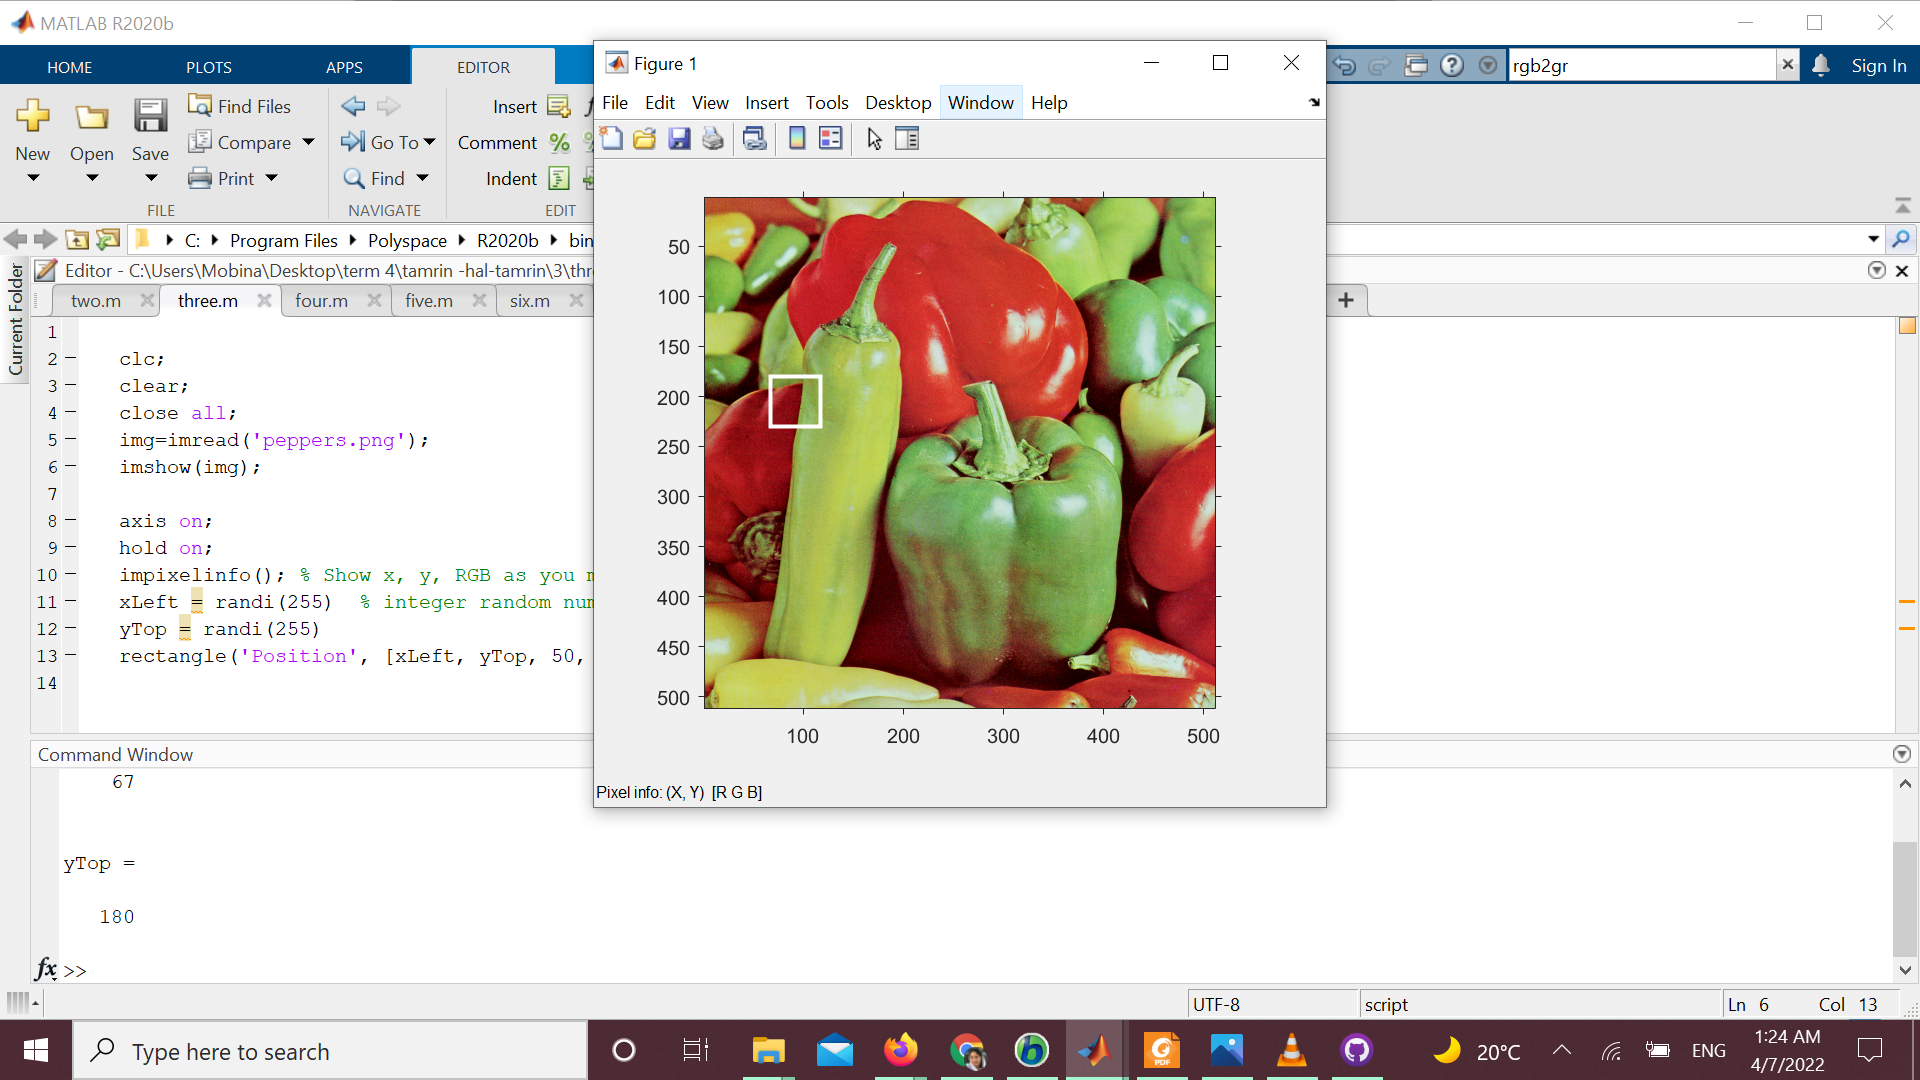
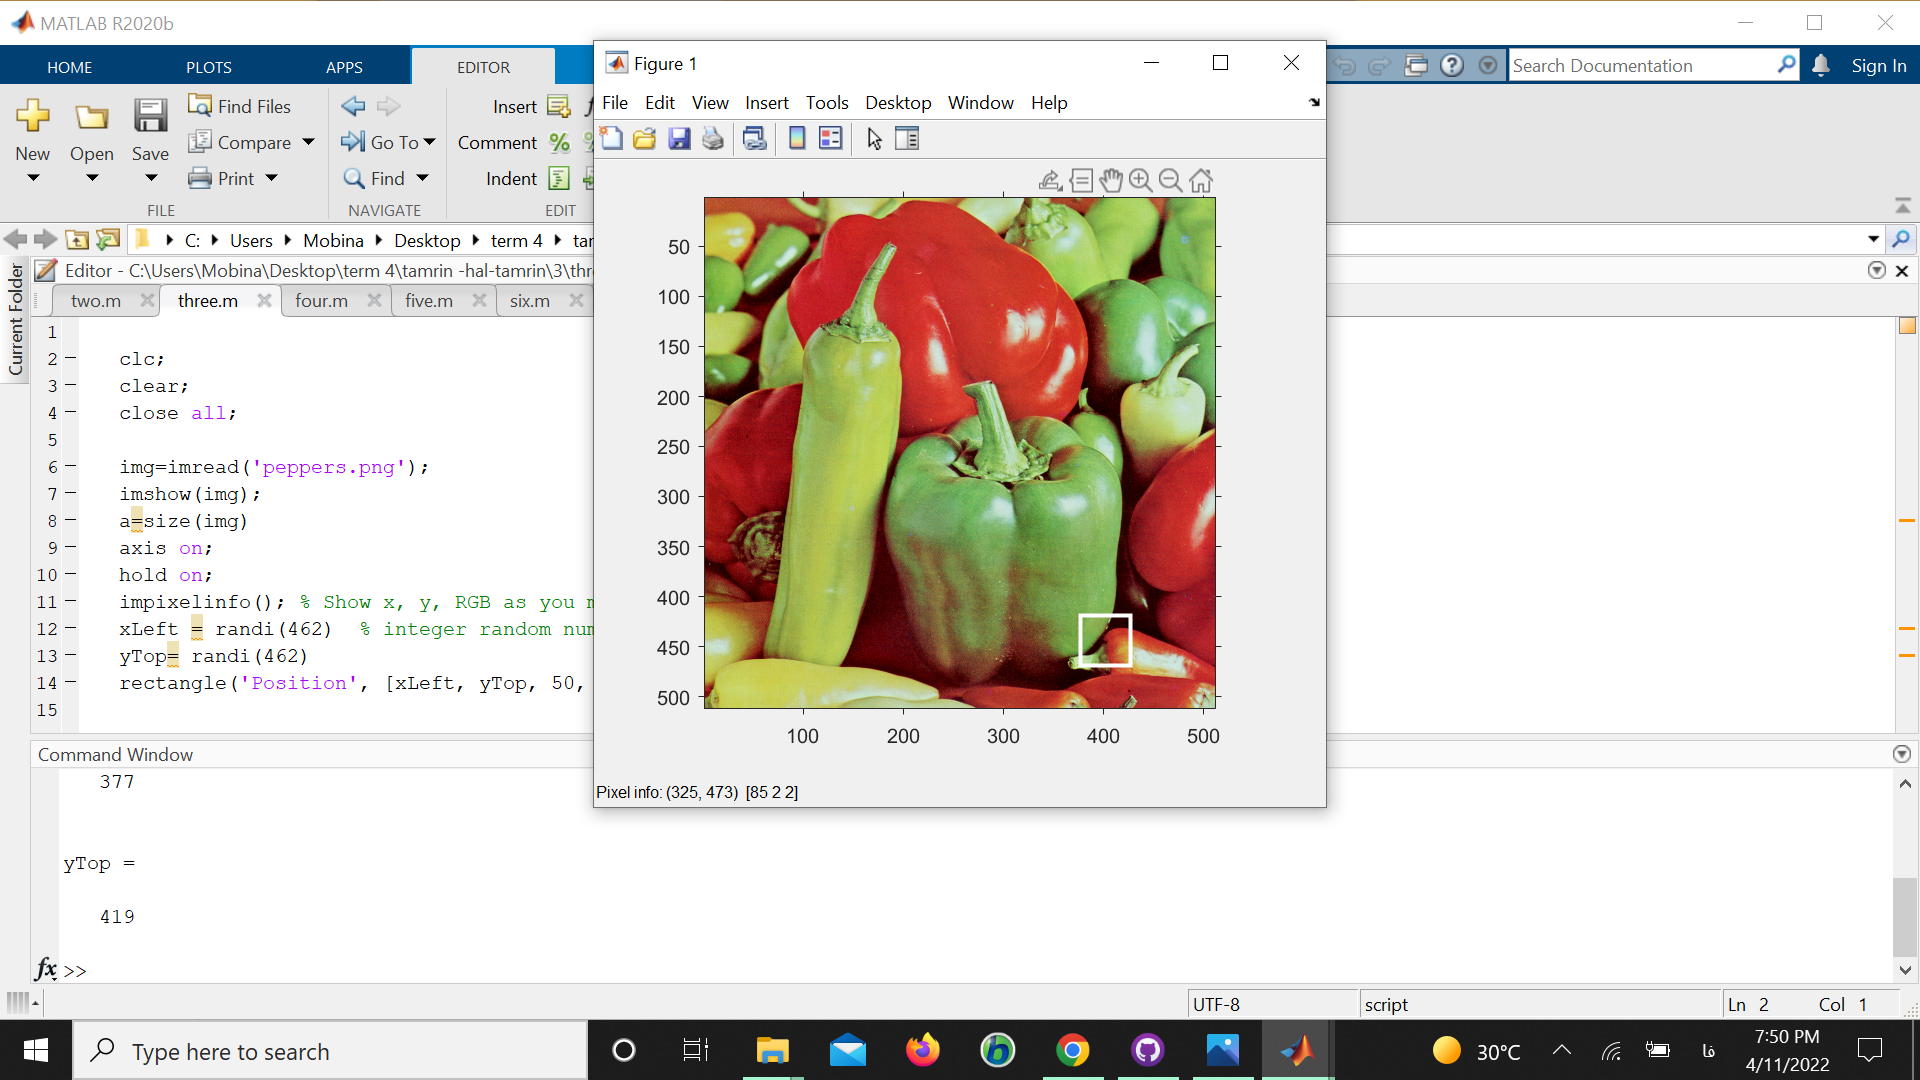
Add files via upload

diff --git a/exercises/mobina-t77/3/three.m b/exercises/mobina-t77/3/three.m
@@ -2,12 +2,13 @@
 clc;
 clear;
 close all;
+
 img=imread('peppers.png');
 imshow(img);
-
+a=size(img)
 axis on;
 hold on;
 impixelinfo(); % Show x, y, RGB as you mouse around over image.
-xLeft = randi(255)  % integer random number between 1 and 255; % Wherever you want.
-yTop = randi(255)
+xLeft = randi(462)  % integer random number between 1 and (512-50); .
+yTop= randi(462)
 rectangle('Position', [xLeft, yTop, 50, 50], 'EdgeColor', 'w', 'LineWidth', 2);
